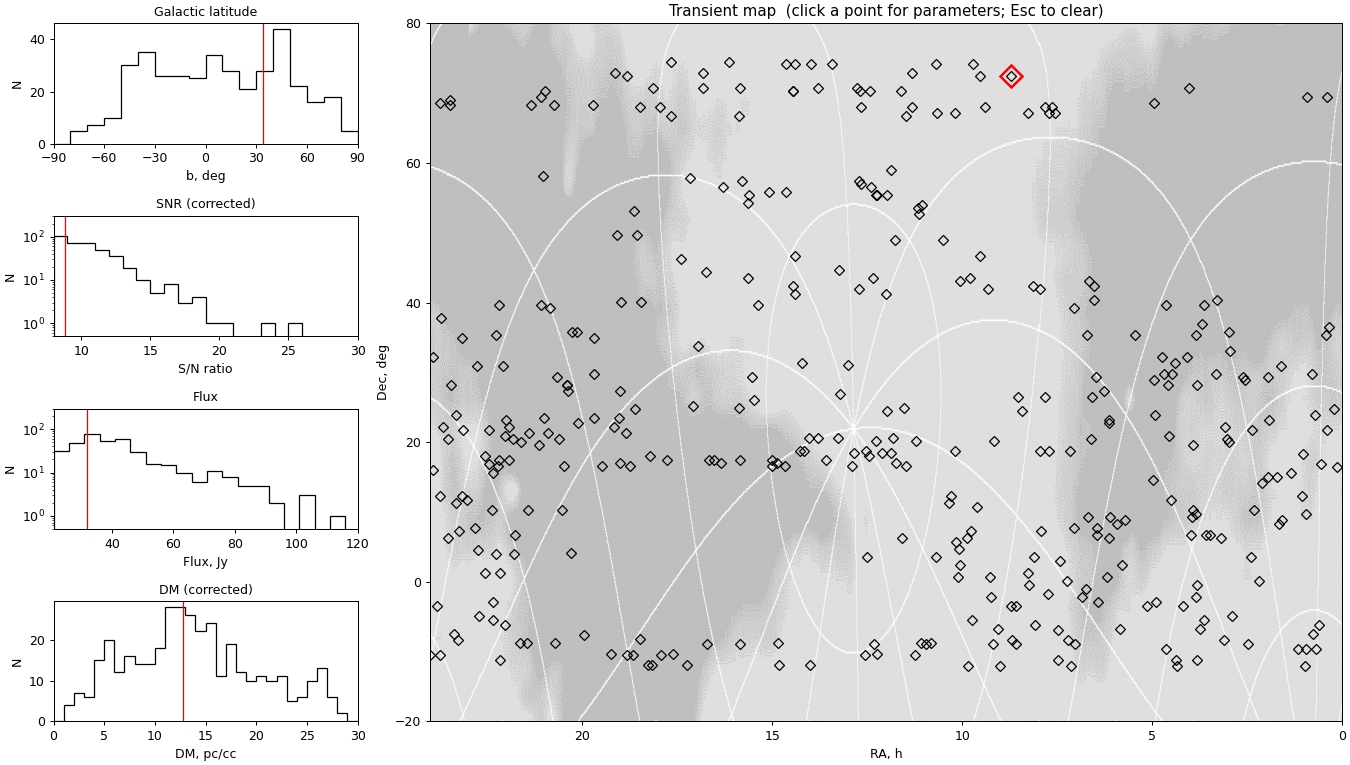
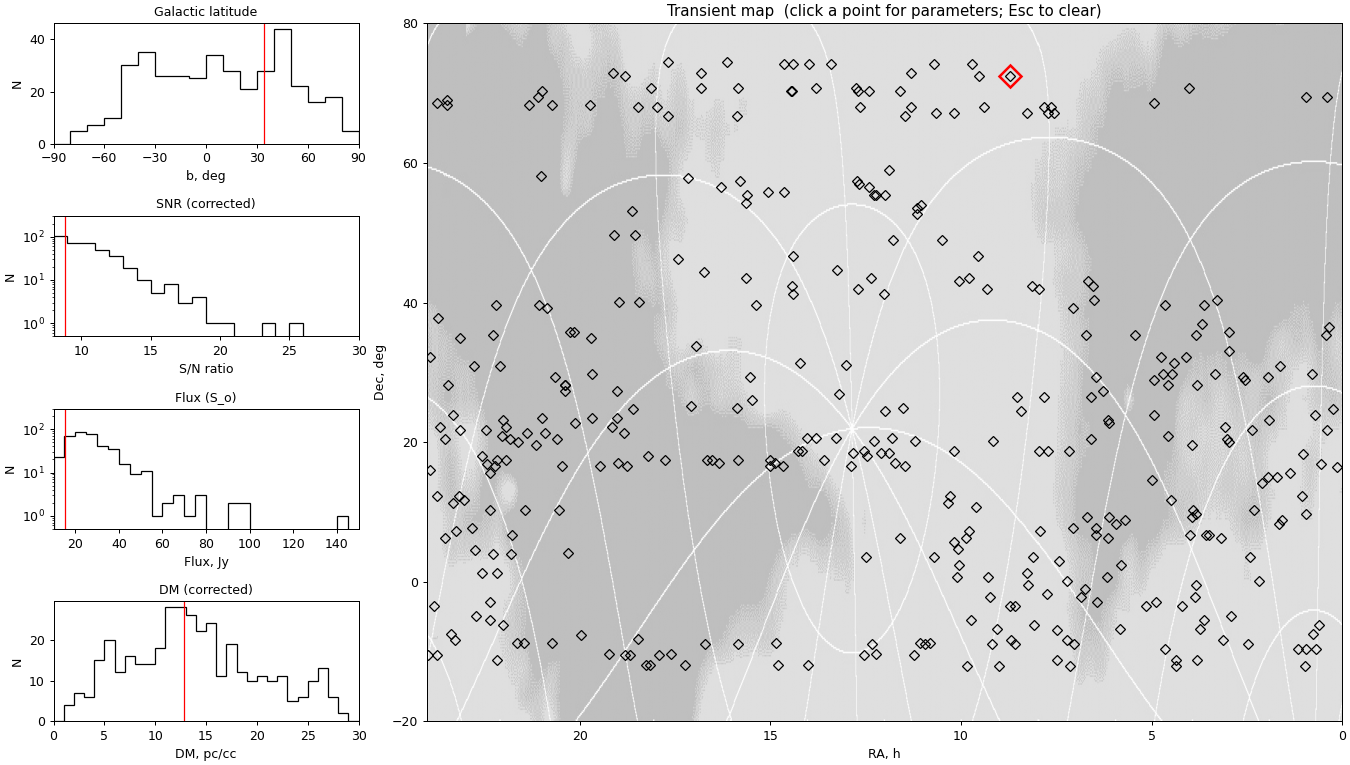
Plot true flux S_o on the Flux histogram (matches info panel)
The IDL transientanalisys_380_flux_v2.pro labeled the histogram axis
'Flux, Jy' but actually fed it the Tx1000_K column (brightness
temperature, a different physical quantity), while the popup window
for the selected transient displayed S_o (true flux density in
Jansky). The two never matched.

Switch the histogram to S_o so the red marker line lands at the same
value as the 'FLUX = ... Jy' field in the parameters window. Bin range
adjusted to 10..150 Jy / step 5 to fit the actual S_o distribution
(observed range 11.4..144.3 Jy in the 380-transient catalog).

diff --git a/src/plots/histograms.py b/src/plots/histograms.py
@@ -3,8 +3,15 @@
 Bin sizes and ranges were chosen to reproduce the IDL plots:
   * Galactic latitude b: bin width 10 deg, range -90..90
   * SNR (corrected):     bin width 1,      range Threshold..30 (log Y)
-  * Flux (Tx1000_K):     bin width 5,      range 21..120        (log Y)
+  * Flux (S_o, Jy):      bin width 5,      range 10..150        (log Y)
   * DM (corrected):      bin width 1,      range 0..30
+
+Note: the IDL `transientanalisys_380_flux_v2.pro` histogram labeled
+"Flux, Jy" is actually plotted from the `Tx1000_K` column (brightness
+temperature), while the popup window for the selected transient uses the
+`S_o` column (true flux density in Jansky). The two columns are different
+physical quantities. We use `S_o` here so the red marker line matches the
+"FLUX = ... Jy" value shown in the info panel.
 """
 
 from __future__ import annotations
@@ -42,7 +49,7 @@ class HistogramPanel:
         }
         _gb_hist(self.axes["b"], selected.gb)
         _snr_hist(self.axes["snr"], selected.snr_corr, snr_threshold)
-        _flux_hist(self.axes["flux"], selected.tx1000_k)
+        _flux_hist(self.axes["flux"], selected.flux)
         _dm_hist(self.axes["dm"], selected.dm_corr)
         self._marker_lines: dict[str, "Line2D"] = {}  # type: ignore[name-defined]
 
@@ -51,7 +58,7 @@ class HistogramPanel:
         values = {
             "b": float(catalog.gb[index]) if catalog.gb is not None else None,
             "snr": float(catalog.snr_corr[index]),
-            "flux": float(catalog.tx1000_k[index]),
+            "flux": float(catalog.flux[index]),
             "dm": float(catalog.dm_corr[index]),
         }
         for key, val in values.items():
@@ -93,15 +100,15 @@ def _snr_hist(ax, snr_corr: np.ndarray, threshold: float) -> None:
     ax.set_title("SNR (corrected)", fontsize=10)
 
 
-def _flux_hist(ax, tx1000_k: np.ndarray) -> None:
-    bins = np.arange(21, 121, 5)
-    ax.hist(tx1000_k, bins=bins, histtype="step", color="black")
+def _flux_hist(ax, flux_jy: np.ndarray) -> None:
+    bins = np.arange(10, 151, 5)
+    ax.hist(flux_jy, bins=bins, histtype="step", color="black")
     ax.set_yscale("log")
-    ax.set_xlim(21, 120)
+    ax.set_xlim(10, 150)
     ax.set_ylim(0.5, 300)
     ax.set_xlabel("Flux, Jy")
     ax.set_ylabel("N")
-    ax.set_title("Flux", fontsize=10)
+    ax.set_title("Flux (S_o)", fontsize=10)
 
 
 def _dm_hist(ax, dm_corr: np.ndarray) -> None:
